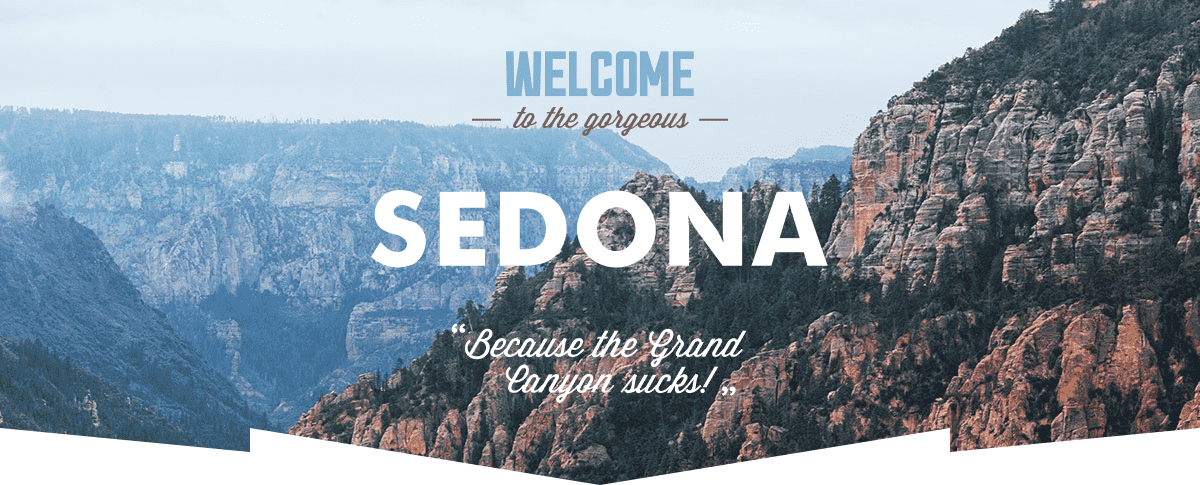
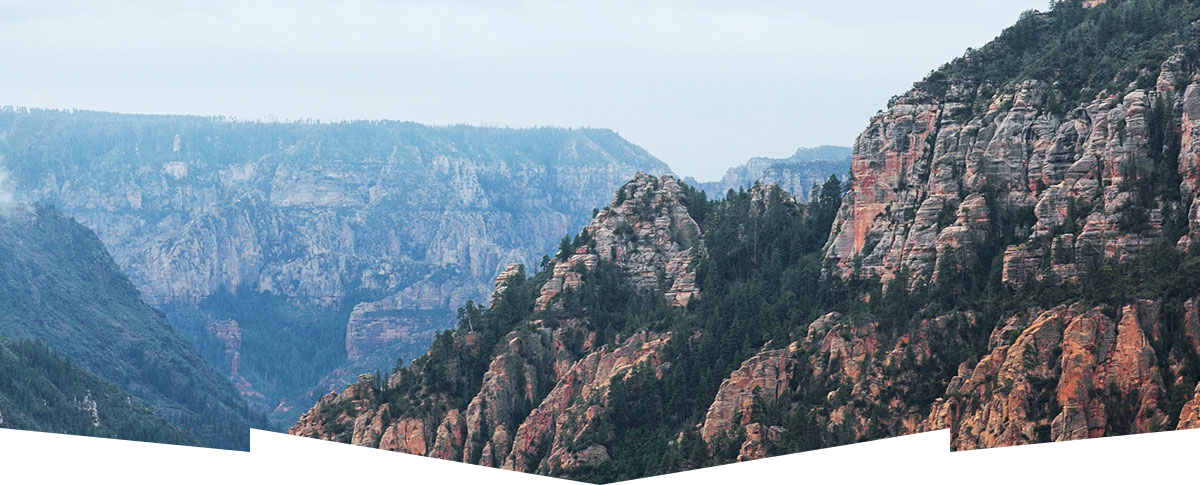
Добавляет правки по изображениям в index.html

diff --git a/index.html b/index.html
@@ -41,7 +41,7 @@
       <div class="container">
         <section class="hero">
           <h1 class="visually-hidden">Отдых в городке Седона</h1>
-          <img class="hero-img" src="images/welcome-sedona.png" width="1200" height="485" alt="Welcome to the gorgeous. Sedona. Because the Grand Canyon sucks!">
+          <img class="hero-img" src="images/welcome-sedona-title.svg" width="456" height="351" alt="Welcome to the gorgeous. Sedona. Because the Grand Canyon sucks!">
         </section>
         <section class="advantages align-center">
           <h2 class="visually-hidden">Преимущества отдыха в городке Седона</h2>
@@ -51,7 +51,7 @@
             <li class="advantages-item">
               <h3 class="item-title advantages-item-title">Настоящий городок</h3>
               <p class="item-text advantages-item-text">Седона — не аттракцион для туристов, там течёт своя жизнь</p>
-              <img class="advantages-item-img" src="images/sedona-city-1.jpg" width="800" height="385" alt="">
+              <img class="advantages-item-img" src="images/sedona-city-1.jpg" width="800" height="385" alt="Здания и природа городка Седона">
             </li>
             <li class="advantages-item">
               <h3 class="item-title advantages-item-title">Небольшая площадь</h3>
@@ -66,7 +66,7 @@
               <p class="item-text advantages-item-text">Большинство едет в Гранд Каньон и толпится там</p>
             </li>
             <li class="advantages-item">
-              <img class="advantages-item-img" src="images/sedona-city-2.jpg" width="800" height="385" alt="">
+              <img class="advantages-item-img" src="images/sedona-city-2.jpg" width="800" height="385" alt="Вид на горы и природную достопримечательность Мост дьявола">
               <h3 class="item-title advantages-item-title">Там есть мост дьявола</h3>
               <p class="item-text advantages-item-text">Да, по нему можно пройти! Если вы осмелитесь, разумеется</p>
             </li>

diff --git a/styles/styles.css b/styles/styles.css
@@ -29,6 +29,7 @@ body {
 }
 
 img {
+  display: block;
   max-width: 100%;
   height: auto;
   object-fit: contain;
@@ -92,6 +93,7 @@ img {
 }
 
 .button {
+  display: inline-block;
   padding: 8px 34px;
   background-color: #756157;
   border-radius: 4px;
@@ -125,6 +127,18 @@ img {
 
 .align-center {
   text-align: center;
+}
+
+.hero {
+  width: 1200px;
+  height: 485px;
+  background: url("../images/welcome-sedona.png") no-repeat;
+  background-size: 100% auto;
+}
+
+.hero-img {
+  margin: 0 auto;
+  padding-top: 51px;
 }
 
 .advantages-item {
@@ -230,7 +244,7 @@ img {
 
 .footer-phone {
   font-size: 40px;
-  line-height: 40px;;
+  line-height: 40px;
   color: #000000;
   text-decoration: none;
 }
